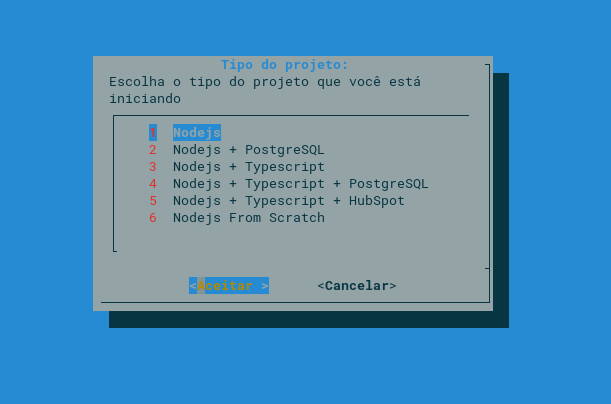
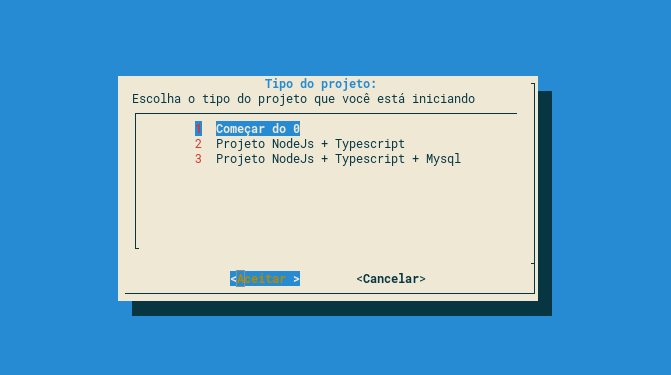
refactor: alterado projeto para remover kickstart para projetos de hubspot

diff --git a/README.md b/README.md
@@ -12,13 +12,13 @@ Para fazer o uso desse kickstart você precisará ter em seu computador as segui
 ### Modo de usar
 ``` bash
 # Clone o repositório
-$ git clone git@ssh.dev.azure.com:v3/okndevelopers/okn-labs/node-kickstart
+$ git clone git@github.com:yuridefranca/node-kickstart.git
 
 # Entre no diretório do kickstart
 $ cd node-kickstart
 
 # Execute o seguinte comando
-$ source init.sh
+$ ./init.sh
 
 # Abrirá um menu para onde será definido as configurações do projeto
 
@@ -34,23 +34,6 @@ Escolha o tipo de projeto:
 
 ![Dialog Nome do Projeto](/images/dialog-tipo-do-projeto.png)
 
-#### **NodeJs** <br>
-- Docker;
-- NodeJs;
-- NPM/Yarn;
-- Arquitetura padrão com o express;
-
-<br>
-
-#### **NodeJs + PostgreSQL** <br>
-- Docker;
-- NodeJs;
-- PostgreSQL (orm prisma);
-- NPM/Yarn;
-- Arquitetura padrão com o express;
-
-<br>
-
 #### **NodeJs + Typescript** <br>
 - Docker;
 - NodeJs + Typescript;
@@ -59,24 +42,16 @@ Escolha o tipo de projeto:
 
 <br>
 
-#### **NodeJs + Typescript + PostgreSQL** <br>
+#### **NodeJs + Typescript + Mysql** <br>
 - Docker;
 - NodeJs + Typescript;
-- PostgreSQL (orm prisma);
+- Mysql;
 - NPM/Yarn;
 - Arquitetura padrão com o express;
 
 <br>
 
-#### **NodeJs + Typescript + HubSpot** <br>
-- Docker;
-- NodeJs + Typescript;
-- NPM/Yarn;
-- Arquitetura padrão com o express + service para api do hubspot;
-
-<br>
-
-#### **NodeJs From Scratch** <br>
+#### **NodeJs + Typescript From Scratch** <br>
 - Docker;
 - NodeJs;
 - NPM/Yarn;
